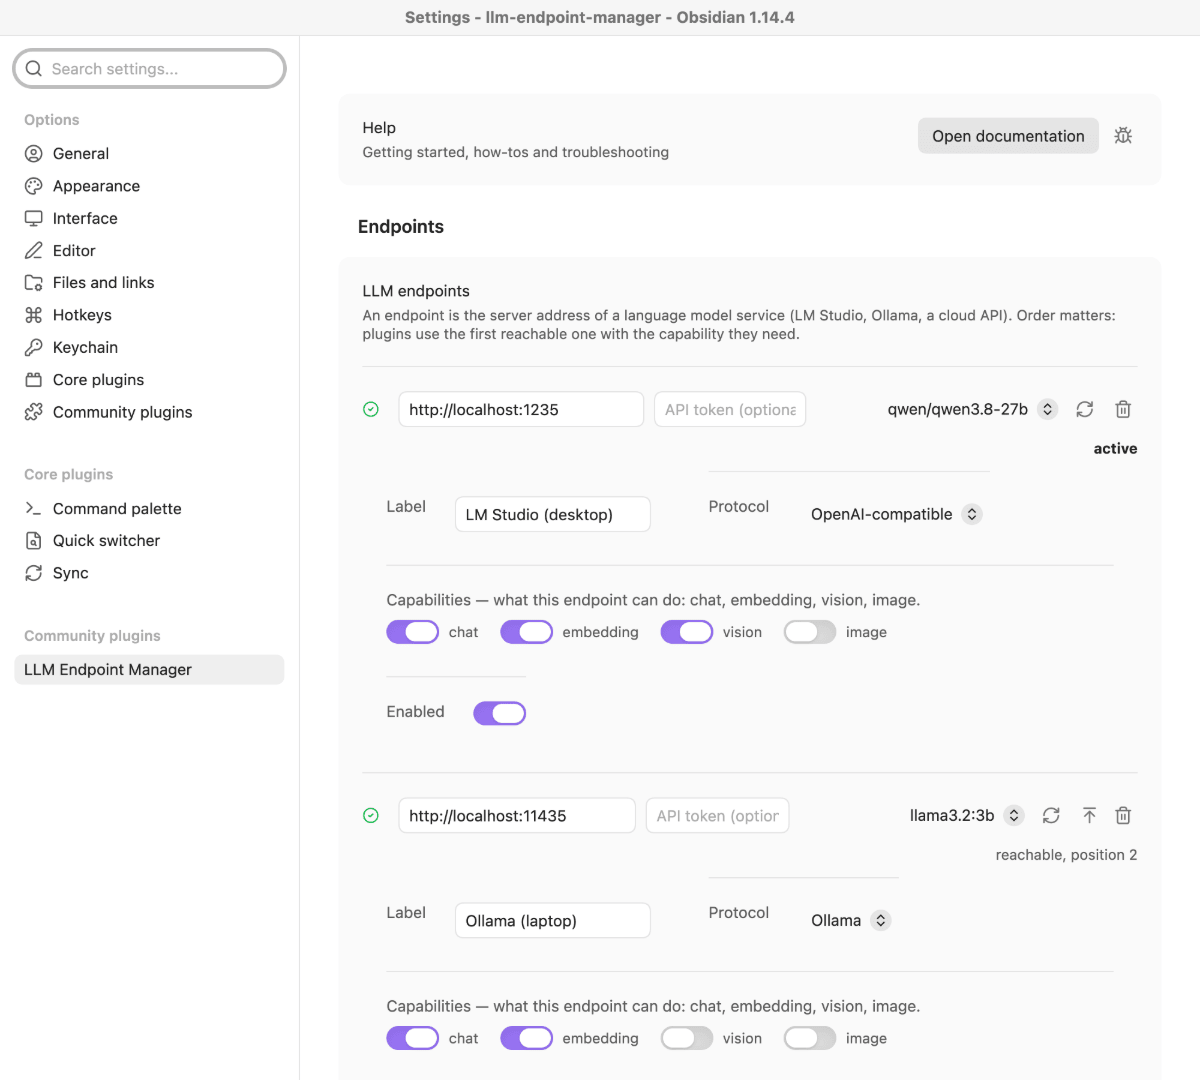
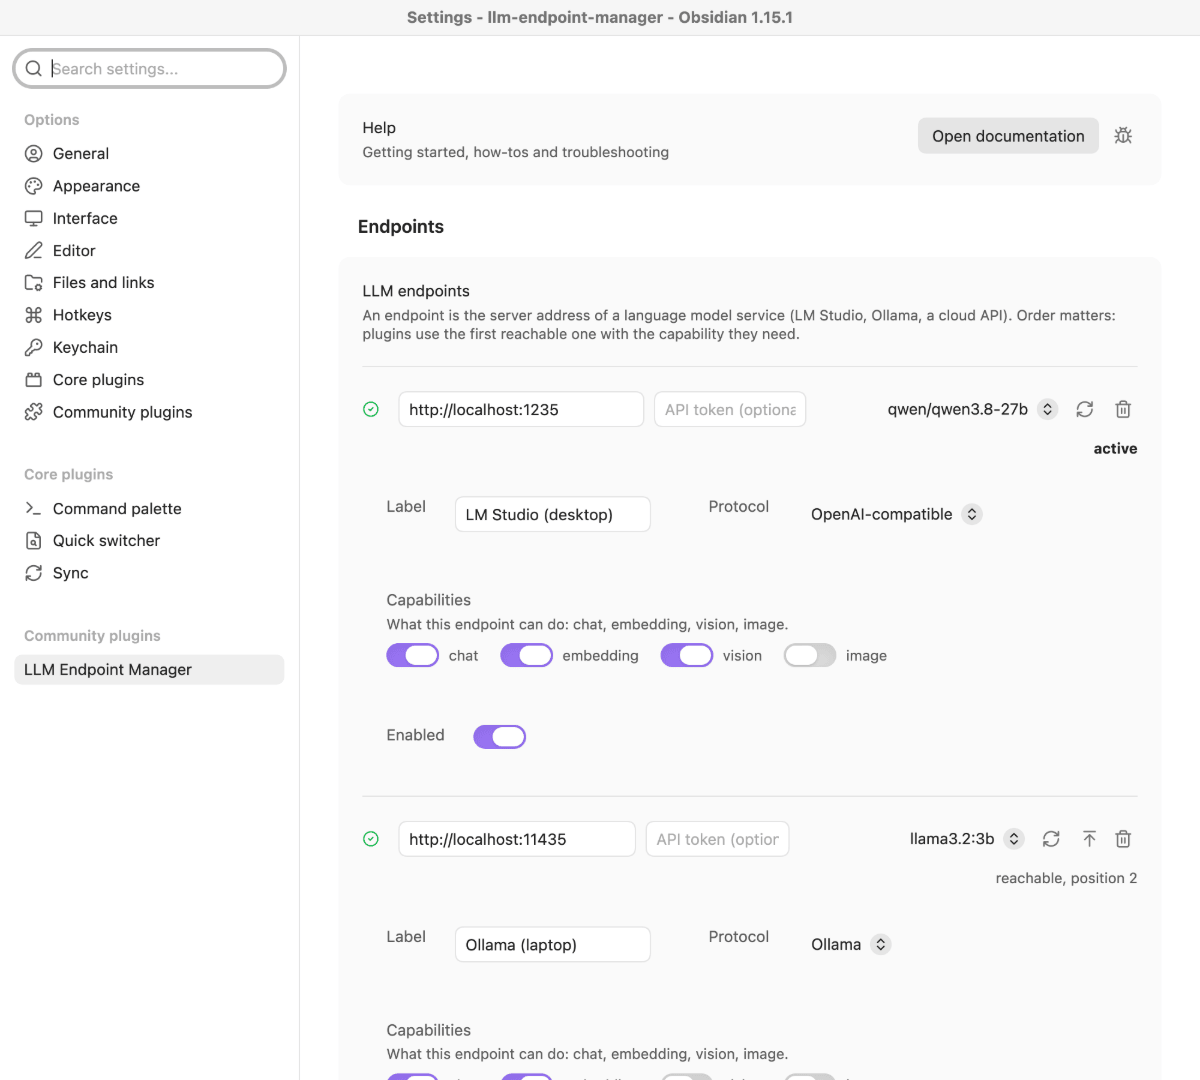
docs(images): hero.png und endpoints.png neu aufgenommen (Zusatzzeile seit 0.9.4)
shots.ts: bereiteInstanzVor vor der Aufnahme, endpoints.png in 940 px hohem Fenster, ausschnitt bricht ab statt unter dem Fenster abzuschneiden.

diff --git a/scripts/shots.ts b/scripts/shots.ts
@@ -27,7 +27,7 @@
 
 import { argv, cwd, exit } from "node:process";
 
-import { Cdp, attachTo, requireUntil, requireVisible } from "../../tools/obsidian-cdp/cdp.js";
+import { Cdp, attachTo, bereiteInstanzVor, requireUntil, requireVisible } from "../../tools/obsidian-cdp/cdp.js";
 import { startLlmStub, type LlmStub } from "../../tools/obsidian-cdp/llm-stub.js";
 import { capture, setWindowSize, writeShot, type Rect } from "../../tools/obsidian-cdp/shot.js";
 import { buildVault, stagingVaultDir } from "../../tools/obsidian-cdp/vault.js";
@@ -37,6 +37,8 @@ const REPO_NAME = "llm-endpoint-manager";
 const CAPTURE_WIDTH = 1200;
 const THUMB_WIDTH = 380;
 const WINDOW = { width: 1000, height: 900 };   // unter der kleinsten Bildschirmhoehe, sonst lehnt Electron ab
+
+const ENDPOINTS_HEIGHT = 940;   // nur für endpoints.png (gemessen 2026-11-12: Bildschirm 949 px hoch verfügbar); ein kleineres Display kappt es, `ausschnitt` bricht dann ab statt abzuschneiden
 
 const LM_PORT = 1235;
 const OLLAMA_PORT = 11435;
@@ -134,10 +136,12 @@ async function ausschnitt(win: Cdp, opts: { scrollTop?: number; scrollTo?: strin
     ${opts.scrollTo ? `const anchor = ${opts.scrollTo}; sc.scrollTop = 0; sc.scrollTop = anchor.getBoundingClientRect().top - sc.getBoundingClientRect().top - 24;` : `sc.scrollTop = ${opts.scrollTop ?? 0};`}
     await new Promise((r) => setTimeout(r, 400));
     const von = (${opts.von}).getBoundingClientRect(), bis = (${opts.bis}).getBoundingClientRect();
-    return JSON.stringify({ top: von.top, bottom: bis.bottom, w: innerWidth });
+    return JSON.stringify({ top: von.top, bottom: bis.bottom, w: innerWidth, h: innerHeight });
   `);
   if (!raw) throw new Error("Ausschnitt nicht bestimmbar");
-  const r = JSON.parse(raw) as { top: number; bottom: number; w: number };
+  const r = JSON.parse(raw) as { top: number; bottom: number; w: number; h: number };
+  // Ein Bereich, der unter dem Fenster endet, kommt als schwarzer Streifen und abgeschnittener Inhalt ins Bild (Welle 33: endpoints.png nach Welle 32, Zeilen höher als das Fenster).
+  if (r.bottom > r.h) throw new Error(`Bereich endet bei ${Math.round(r.bottom)} px, das Fenster ist ${r.h} px hoch — Fenster höher stellen oder den Bereich kürzen.`);
   const x0 = opts.x0 ?? 270;
   const y = Math.max(0, r.top - (opts.padTop ?? 16));
   return { x: x0, y, width: opts.width ?? r.w - x0, height: r.bottom + (opts.padBottom ?? 16) - y };
@@ -184,6 +188,8 @@ async function main(): Promise<void> {
   const fakes: Fake[] = [];
   let settingsWin: Cdp | null = null;
   try {
+    // Vertrauensdialog und Restricted Mode eines frischen Profils (ohne den Aufruf: „Plugin nicht geladen“, Welle 33).
+    await bereiteInstanzVor(ws, { pluginIds: [PLUGIN_ID], nurVault: REPO_NAME, sprache: "en" });
     await requireVisible(ws);
 
     // Aufnahmesprache: Englisch (README.md ist kanonisch). Die Pruefung liest die Sprache aus
@@ -221,8 +227,11 @@ async function main(): Promise<void> {
       await aufnehmen(settingsWin, "hero.png", { x: 0, y: 0, width: fenster.w, height: fenster.h }, outDir);
     }
     if (want("endpoints")) {
+      // Mit den höheren Zeilen seit Welle 32 passt der Bereich bis „Check connections“ nicht mehr in 900 px; nur für dieses Bild höher stellen.
+      await setWindowSize(settingsWin, breite ?? WINDOW.width, ENDPOINTS_HEIGHT);
+      await new Promise((r) => setTimeout(r, 800));
       const box = await ausschnitt(settingsWin, {
-        scrollTo: "rowOf(1)", von: "rowOf(1)", bis: "[...document.querySelectorAll('button')].find((b) => b.textContent.trim() === 'Check connections')", ...(breite === undefined ? { width: 712 } : {}), padBottom: 4,
+        scrollTo: "rowOf(1)", von: "rowOf(1)", bis: "[...document.querySelectorAll('button')].find((b) => b.textContent.trim() === 'Check connections')", ...(breite === undefined ? { width: 712 } : {}), padTop: 4, padBottom: 4,
       });
       await aufnehmen(settingsWin, breite === undefined ? "endpoints.png" : `endpoints-${breite}.png`, box, outDir);
     }

diff --git a/docs/images/README.md b/docs/images/README.md
@@ -8,6 +8,8 @@ The plugin has no view of its own, so every image shows its settings tab. Since 
 
 **2026-09-26: all four images recorded** in a second Obsidian instance (own profile, own debug port, Obsidian 1.14.2, English interface, light theme) against the fixture vault in `fixture/`. Every image was looked at after recording.
 
+**2026-11-12: `hero.png` and `endpoints.png` recorded again** (Obsidian 1.15.1, same setup) because the extra rows of an endpoint look different since 0.9.4. `endpoints.png` is taken in a window 940 px high instead of 900: with the taller rows the range down to **Check connections** no longer fits into 900 px, and `scripts/shots.ts` now stops with a message instead of cutting a picture off. `models.png` and `consumers.png` were not touched. Both new images were looked at after recording.
+
 ## Images
 
 | Datei | Klasse | referenziert von | muss zeigen |

diff --git a/CHANGELOG.md b/CHANGELOG.md
@@ -12,6 +12,7 @@ All notable changes to this project are documented here. The format follows
 
 ### Fixed
 
+- Documentation: the README images **hero** and **endpoints** show the settings as they look since 0.9.4 (the extra rows of an endpoint with their own labels).
 - API, `materialize(id)`: an endpoint that speaks another wire format (the Claude endpoint) is no longer handed out to a plugin that did not ask for it in `transports`, even when it names the endpoint by id; the call answers `not-found`, like `list()` and `resolve()` already do. A plugin that opts in (`transports: ["http", "anthropic"]`) gets it as before.
 
 ## [0.9.4] — 2026-11-11
